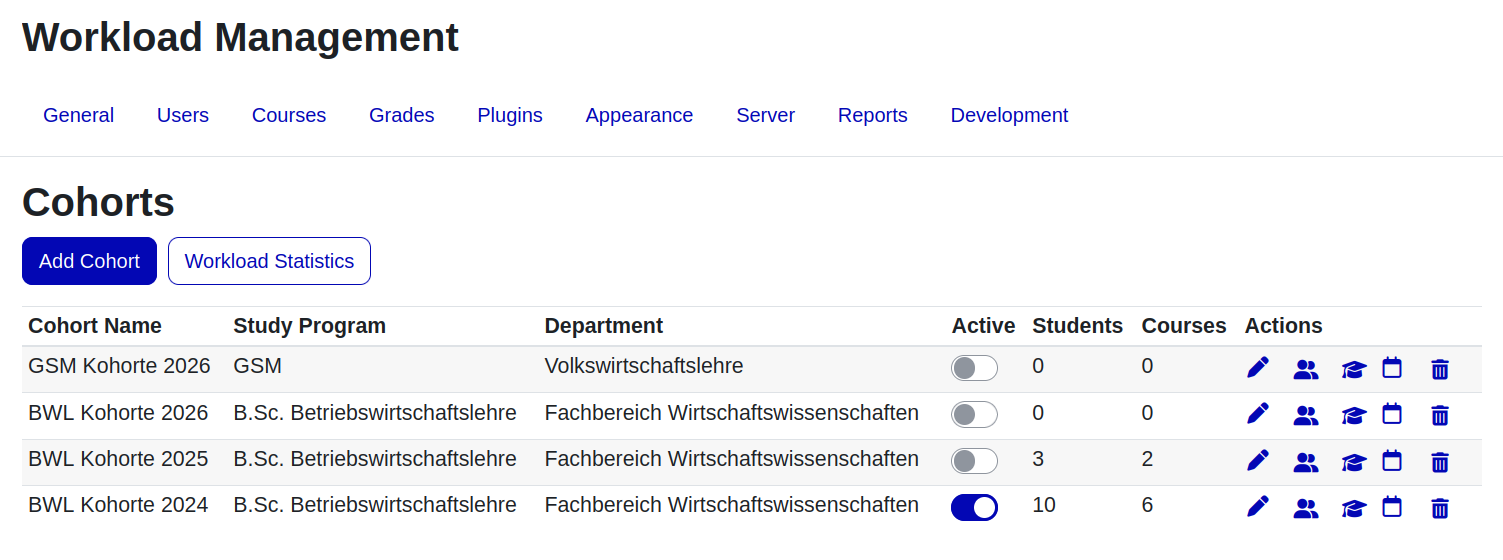
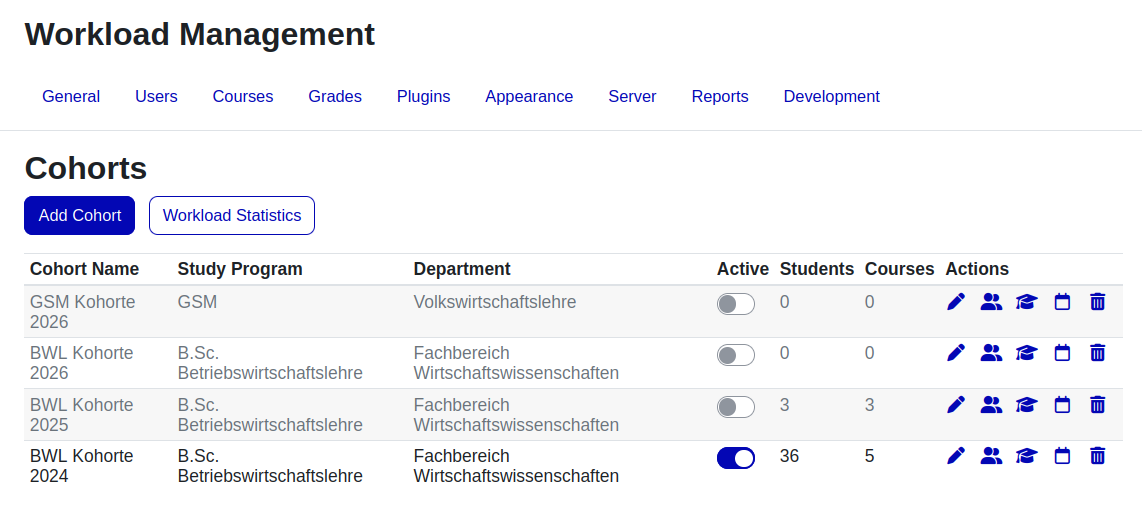
Improve charts

diff --git a/mystats.php b/mystats.php
@@ -147,6 +147,8 @@ $chartcoursehtml     = '';
 $chartweekdetailhtml = '';
 $chartweekdetail     = null;
 
+$brandcolor = !empty($PAGE->theme->settings->brandcolor) ? $PAGE->theme->settings->brandcolor : '#1177d1';
+
 $piemaxslices      = 10;
 $truncate          = fn($s) => mb_strlen($s) > 35 ? mb_substr($s, 0, 33) . "\xe2\x80\xa6" : $s;
 $overflowcourses   = [];
@@ -160,12 +162,17 @@ if (!empty($entries)) {
         $chartweek = new \core\chart_bar();
     }
     $chartweek->set_title(get_string('statsbyweek', 'block_workload'));
-    $chartweek->add_series(new \core\chart_series(
+    $serieswk = new \core\chart_series(
         get_string('hours', 'block_workload'),
         array_values($weektotals)
-    ));
+    );
+    $serieswk->set_color($brandcolor);
+    $chartweek->add_series($serieswk);
     $chartweek->set_labels(array_keys($weektotals));
     $chartweekhtml = $OUTPUT->render($chartweek);
+
+    $piepalette = ['#4e79a7', '#f28e2b', '#e15759', '#76b7b2', '#59a14f',
+                   '#edc948', '#b07aa1', '#ff9da7', '#9c755f', '#bab0ac', '#4e79a7'];
 
     // Course pie chart.
     $chartcoursetotals = array_slice($coursetotals, 0, $piemaxslices, true);
@@ -176,10 +183,12 @@ if (!empty($entries)) {
     }
     $chartcourse = new \core\chart_pie();
     $chartcourse->set_title(get_string('statsbycourse', 'block_workload'));
-    $chartcourse->add_series(new \core\chart_series(
+    $seriescourse = new \core\chart_series(
         get_string('hours', 'block_workload'),
         array_values($chartcoursetotals)
-    ));
+    );
+    $seriescourse->set_colors(array_slice($piepalette, 0, count($chartcoursetotals)));
+    $chartcourse->add_series($seriescourse);
     $chartcourse->set_labels(array_map($truncate, array_keys($chartcoursetotals)));
     $chartcoursehtml = $OUTPUT->render($chartcourse);
 
@@ -199,10 +208,12 @@ if (!empty($entries)) {
                  . get_string('weeknumber', 'block_workload', (int)$wdwn);
         $chartweekdetail = new \core\chart_pie();
         $chartweekdetail->set_title($wdtitle);
-        $chartweekdetail->add_series(new \core\chart_series(
+        $serieswkdetail = new \core\chart_series(
             get_string('hours', 'block_workload'),
             array_values($wdtotals)
-        ));
+        );
+        $serieswkdetail->set_colors(array_slice($piepalette, 0, count($wdtotals)));
+        $chartweekdetail->add_series($serieswkdetail);
         $chartweekdetail->set_labels(array_map($truncate, array_keys($wdtotals)));
         $chartweekdetailhtml = $OUTPUT->render($chartweekdetail);
     }

diff --git a/statistics.php b/statistics.php
@@ -158,6 +158,8 @@ $chartweekavghtml   = '';
 $chartweekusershtml = '';
 $charttopusershtml  = '';
 
+$brandcolor = !empty($PAGE->theme->settings->brandcolor) ? $PAGE->theme->settings->brandcolor : '#1177d1';
+
 if (!empty($weeklytotals)) {
     $weeklabels = [];
     $avgvalues  = [];
@@ -175,10 +177,12 @@ if (!empty($weeklytotals)) {
         $chartweekavg->set_smooth(true);
     }
     $chartweekavg->set_title(get_string('avghrsperstudent', 'block_workload'));
-    $chartweekavg->add_series(new \core\chart_series(
+    $seriesavg = new \core\chart_series(
         get_string('avghrsperstudent', 'block_workload'),
         $avgvalues
-    ));
+    );
+    $seriesavg->set_color($brandcolor);
+    $chartweekavg->add_series($seriesavg);
     $yavg = new \core\chart_axis();
     $yavg->set_min(0);
     $chartweekavg->set_labels($weeklabels);
@@ -190,10 +194,12 @@ if (!empty($weeklytotals)) {
         $chartweekusers->set_smooth(true);
     }
     $chartweekusers->set_title(get_string('activestudents', 'block_workload'));
-    $chartweekusers->add_series(new \core\chart_series(
+    $seriesusers = new \core\chart_series(
         get_string('activestudents', 'block_workload'),
         $uservalues
-    ));
+    );
+    $seriesusers->set_color('#e66000');
+    $chartweekusers->add_series($seriesusers);
     $yusers = new \core\chart_axis();
     $yusers->set_min(0);
     $chartweekusers->set_labels($weeklabels);
@@ -211,10 +217,14 @@ if (!empty($topusers)) {
     }
     $charttopusers = new \core\chart_pie();
     $charttopusers->set_title(get_string('topstudents', 'block_workload', count($topusers)));
-    $charttopusers->add_series(new \core\chart_series(
+    $piepalette = ['#4e79a7', '#f28e2b', '#e15759', '#76b7b2', '#59a14f',
+                   '#edc948', '#b07aa1', '#ff9da7', '#9c755f', '#bab0ac', '#4e79a7'];
+    $seriestop = new \core\chart_series(
         get_string('totalhours', 'block_workload'),
         $pievalues
-    ));
+    );
+    $seriestop->set_colors(array_slice($piepalette, 0, count($pievalues)));
+    $charttopusers->add_series($seriestop);
     $charttopusers->set_labels($pielabels);
     $charttopusershtml = $OUTPUT->render($charttopusers);
 }

diff --git a/version.php b/version.php
@@ -24,7 +24,7 @@
 
 defined('MOODLE_INTERNAL') || die();
 
-$plugin->version   = 2026060808;
+$plugin->version   = 2026060902;
 $plugin->requires  = 2024100700; // Moodle 4.5 or later.
 $plugin->component = 'block_workload';
 $plugin->maturity  = MATURITY_BETA;

diff --git a/README.md b/README.md
@@ -176,7 +176,7 @@ The plugin automatically creates a `workload_manager` role during installation. 
 
 ## Version
 
-Current version: **1.0.0** (Build: 2026060808, Stable)
+Current version: **1.0.0** (Build: 2026060902, Stable)
 
 ## License
 